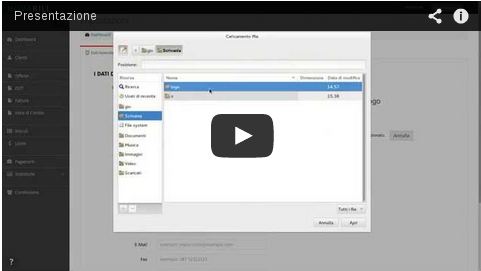
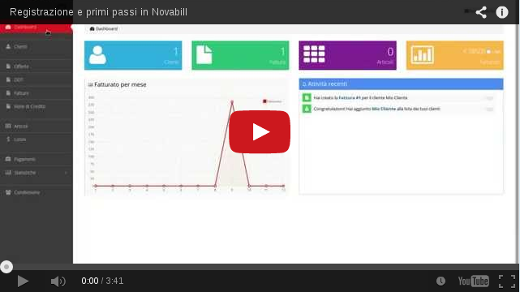
- display an alert with the "quick start" video to new users - set the new youtube video

diff --git a/novabill-server/src/main/webapp/novabill/private/scripts/dashboard-controllers.js b/novabill-server/src/main/webapp/novabill/private/scripts/dashboard-controllers.js
@@ -1,14 +1,14 @@
 'use strict';
 
 angular.module('novabill.dashboard.controllers', 
-		['novabill.directives', 'novabill.directives.dialogs', 'novabill.constants', 'novabill.translations', 'novabill.ajax'])
+		['novabill.directives', 'novabill.directives.dialogs', 'novabill.constants', 'novabill.translations', 'novabill.ajax', 'ngCookies'])
 
 
 /**
  * DASHBOARD CONTROLLER
  */
-.controller('DashboardCtrl', ['$scope', 'nConstants', '$filter', 'nAjax', 'nRecommendByEmailDialog', 'nAlertDialog',
-                              function($scope, nConstants, $filter, nAjax, nRecommendByEmailDialog, nAlertDialog){
+.controller('DashboardCtrl', ['$scope', 'nConstants', '$filter', 'nAjax', 'nRecommendByEmailDialog', 'nAlertDialog', '$cookies',
+                              function($scope, nConstants, $filter, nAjax, nRecommendByEmailDialog, nAlertDialog, $cookies){
 
 	var Business = nAjax.Business();
 
@@ -144,6 +144,13 @@ angular.module('novabill.dashboard.controllers',
 			$scope.incompleteBusinessAlert = $filter('translate')('ALERT_MISSING_BUSINESS_INFO_DASHBOARD', {link : nConstants.url.settingsBusiness()});
 		}
 	});
+	
+	
+	$scope.showFirstRunAlert =  (new Date().getTime() - nConstants.conf.principalCreationDate) <= 604800000 && !$cookies.hideFirstRunAlert;
+	$scope.closeFirstRunAlert = function(){
+		$cookies.hideFirstRunAlert = true;
+	};
+	
 
 }]);
 

diff --git a/novabill-server/src/main/webapp/novabill/private/partials/dashboard.html b/novabill-server/src/main/webapp/novabill/private/partials/dashboard.html
@@ -28,7 +28,13 @@
                  <button type="button" class="close" data-dismiss="alert" aria-hidden="true"></button>
                  <span ng-bind-html="incompleteBusinessAlert"></span>
              </div>
-            
+             
+             <div ng-show="showFirstRunAlert" class="col-md-8 col-md-offset-2 alert alert-info alert-dismissable text-center">
+                 <button type="button" ng-click="closeFirstRunAlert()" class="close" data-dismiss="alert" aria-hidden="true"></button>
+                 <h3>{{'ALERT_FIRST_RUN_VIDEO' | translate}}</h3>
+                 <br>
+                 <iframe width="640" height="360" src="//www.youtube.com/embed/qWv0UQ3Q3Dk" frameborder="0" allowfullscreen></iframe>
+             </div>
             
             <!-- BEGIN DASHBOARD STATS -->
             <div class="row">

diff --git a/novabill-server/src/main/webapp/novabill/private/scripts/translations.js b/novabill-server/src/main/webapp/novabill/private/scripts/translations.js
@@ -30,6 +30,7 @@ angular.module("novabill.translations", ['pascalprecht.translate'])
 		ADDRESSES_MANAGEMENT : 'Gestione Indirizzi',
 		ADD_TO : 'Aggiungi',
 		ADVANCED_SELECTION : 'Selezione avanzata',
+		ALERT_FIRST_RUN_VIDEO : 'Guarda come creare il tuo primo cliente e la prima fattura',
 		ALERT_MISSING_BUSINESS_INFO : 'Per favore completa le informazioni sulla tua azienda',
 		ALERT_MISSING_BUSINESS_INFO_DASHBOARD : 'Le informazioni sulla tua azienda sono incomplete. <a href="{{link}}">Clicca qui</a> per completarle.',
 		BUSINESS_DIALOG_TITLE : 'Completa le informazioni',
